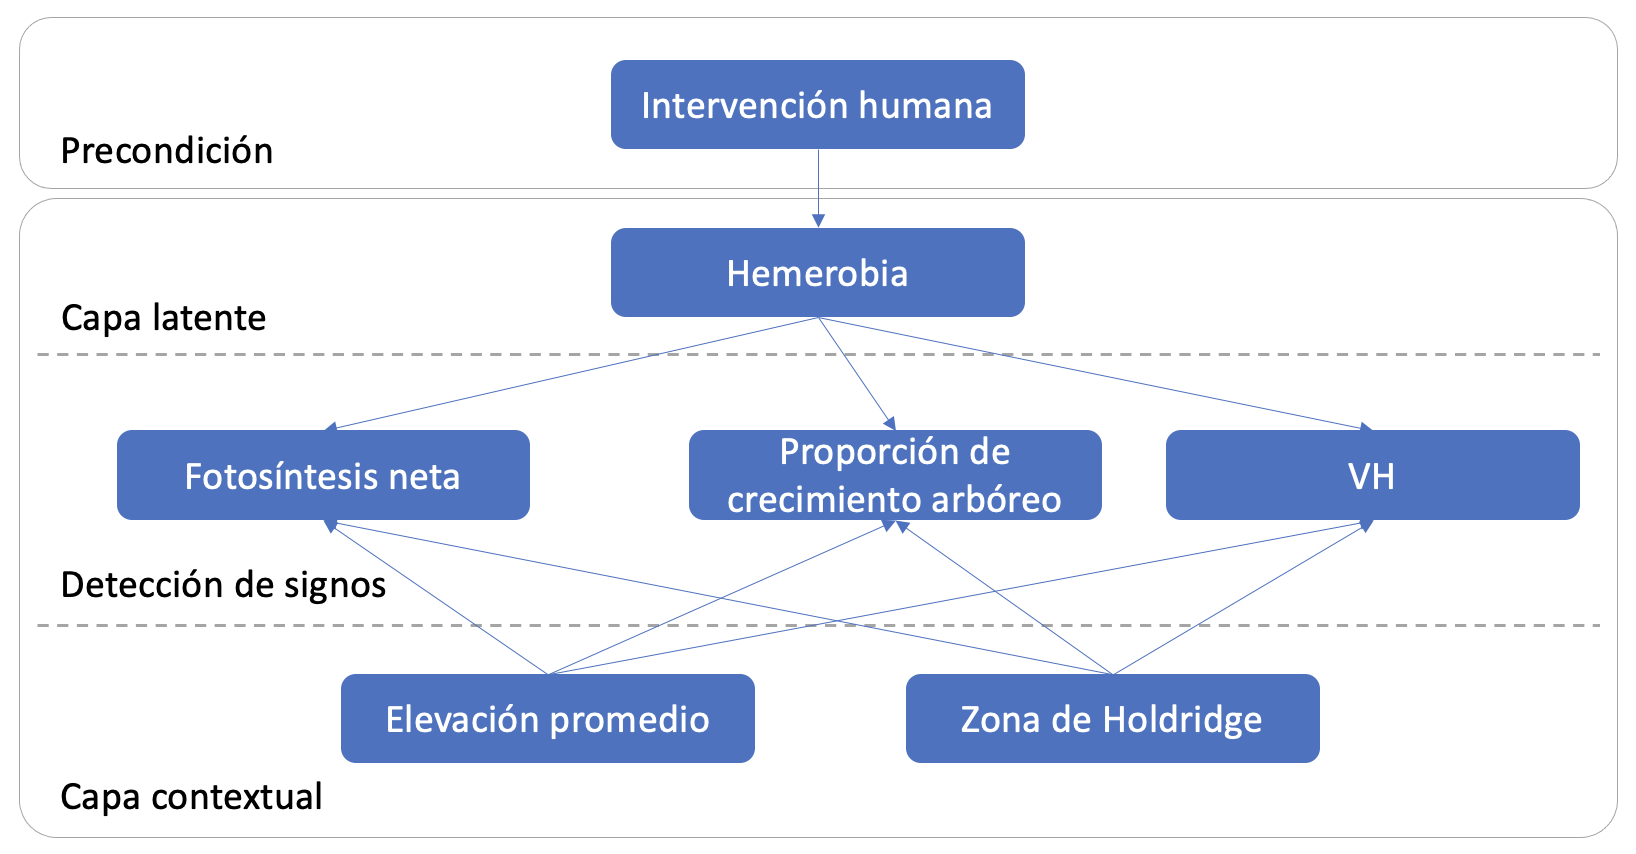
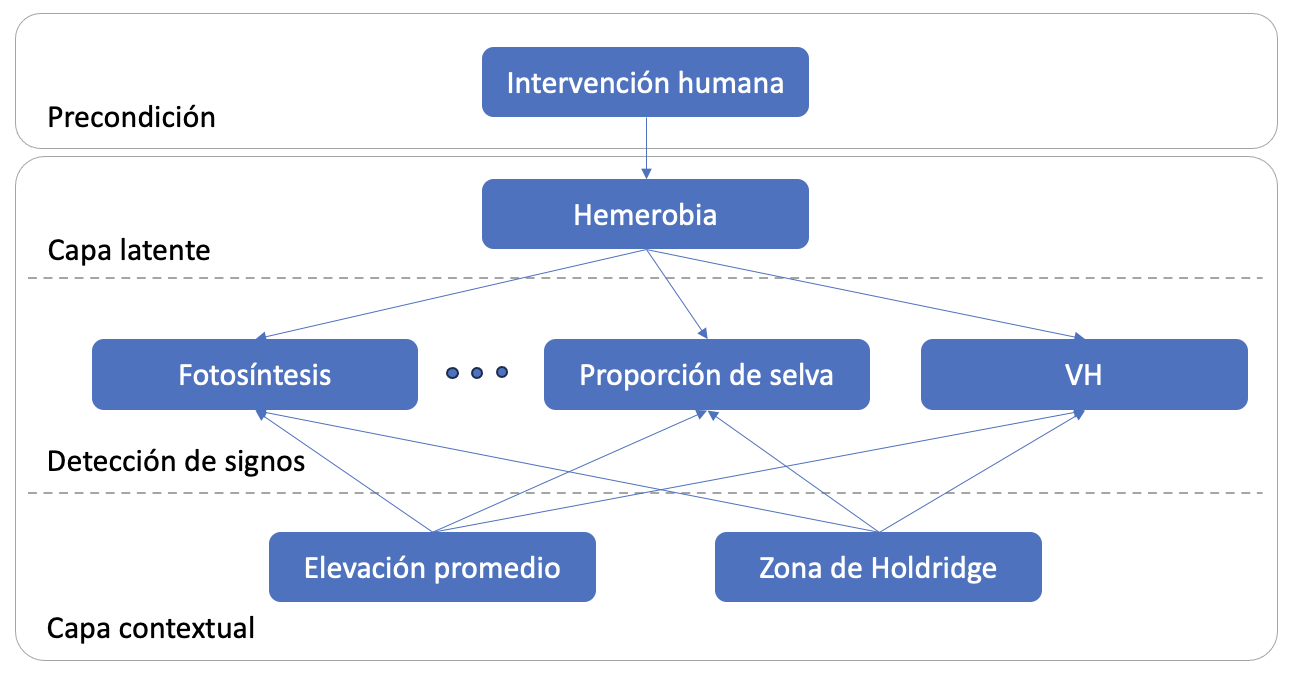
update README

diff --git a/scripts/README.md b/scripts/README.md
@@ -8,32 +8,39 @@ La integridad ecológica no puede ser directamente observada, por lo que para mo
 
 ![](images/hemerobia.png)
 
-Para modelar la hemerobia se tomaron en cuenta variables relacionadas a la integridad ecológica. Se incluyeron las zonas de vida de Holdridge y la elevación, con el fin de considerar los distintos tipos de ecosistemas en México, pues describen la variabilidad natural de las condiciones fisicoquímicas. El modelo incluye información de las características funcionales y estructurales de la vegetación, através datos de fotosíntesis y radar. La distancia al borde representa la fragmentación. Y el uso de suelo identifica distintos tipos que son de nuestro interés, como cultivos y asentamientos urbanos.
+Para modelar la hemerobia se tomaron en cuenta variables relacionadas a la integridad ecológica. Se incluyeron las zonas de vida de Holdridge y la elevación, con el fin de considerar la variabilidad natural de las condiciones fisicoquímicas que defienen los distintos tipos de ecosistemas. La condición de la vegetación se incluyó en una primera versión del modelo, a través de datos obtenidos del INFyS (Inventario Nacional Forestal y de Suelos), que publicaba observaciones obtenidas de muestreo en campo. Sin embargo, esta fuente de información ha sido descontinuada, por lo que fue sustituida con datos de radar, los cuales han sido previamente utilizados para modelar vegetación, por ejemplo, para predicción de la altura del dosel. La variable de distancia al borde del parche representó la fragmentación. Y el uso de suelo identificó distintos tipos relacionados a cierta integridad ecológica, como cultivos y asentamientos urbanos. La fuente de datos de uso de suelo para la primer versión del modelo, fue MAD-Mex, sin embargo, sólo se tienen datos hasta 2018, por lo que se sustituyó por MODIS Land Cover.
 
 El raster de cada una de las variables fue transformado a una misma resolución de 250m x 250m.
 
-|                                             | Definición                                                                                                                                                     | Variable                                     | Resolución de origen (m) | Transformación a resolución de 250m | Fuente                                                                                |
-|------------|------------|------------|------------|------------|------------|
-| Hemerobia                                   | Grado de transformación que mostró la vegetación primaria respecto a la cobertura terrestre actual                                                             | Hemerobia                                    | 250                      | \-                                  | Uso de suelo y vegetación, INEGI                                                      |
-| Zona de vida de Holdridge                   | Agrupa en 28 zonas basandose en presipitación, biotemperatura y la evapotranspiración                                                                          | Zona de vida de Holdridge                    | 260                      | Interpolación con Nearest Neighbor  | Portal de Geoinformación, CONABIO                                                     |
-| Elevación (DEM)                             | Altura sobre nivel promedio del mar                                                                                                                            | Promedio                                     | 30                       | Promedio                            | Copernicus DEM GLO-30: Global 30m Digital Elevation Model                             |
-|                                             |                                                                                                                                                                | Mínimo                                       |                          |                                     |                                                                                       |
-|                                             |                                                                                                                                                                | Máximo                                       |                          |                                     |                                                                                       |
-| Fotosíntesis (Productividad primaria bruta) | Cantidad total de compuestos de carbono producidos por la fotosíntesis. Ha sido usada para estimar la biogeoquímica de la vegetación                           | Promedio anual                               | 500                      | Interpolación con Nearest Neighbor  | Terra Gross Primary Productivity 8-Day Global 500m, NASA                              |
-|                                             |                                                                                                                                                                | DE anual                                     |                          |                                     |                                                                                       |
-|                                             |                                                                                                                                                                | Promedio en estación de lluvias              |                          |                                     |                                                                                       |
-|                                             |                                                                                                                                                                | Promedio en estación seca                    |                          |                                     |                                                                                       |
-| Radar (de apertura sintética en la banda C) | Coeficiente de retrodispersión que depende de la geometría del terreno y sus características electromagnéticas. Ha sido usado para estimar la altura del dosel | Promedio anual de banda VH y VV              | 40                       | Promedio                            | Sentinel-1 SAR GRD: C-band Synthetic Aperture Radar Ground Range Detected, Copernicus |
-|                                             |                                                                                                                                                                | DE anual de banda VH y VV                    |                          |                                     |                                                                                       |
-|                                             |                                                                                                                                                                | Entropía del promedio anual de banda VV y VH |                          |                                     |                                                                                       |
-| Distancia al borde                          | Distancia, en metros, de cada pixel al borde del parche                                                                                                        | Distancia al borde                           | 250                      | \-                                  |                                                                                       |
-| Uso de suelo                                | Estimación basada en imágenes satelitales del tipo de uso de suelo, que incluye cultivos, asentamientos urbanos, pastizales, bosques, etc.                     | Uso de suelo                                 | 500                      | Interpolación con Nearest Neighbor  | MODIS Land Cover Type Yearly Global 500m, NASA                                        |
-| Uso de suelo (MAD-Mex)                      | Estimación del tipo de uso de suelo basado en Landsat                                                                                                          | Proporción de cultivos y pastizales          | 30                       | Promedio                            | CONABIO                                                                               |
-|                                             |                                                                                                                                                                | Proporción de asentamientos humanos          |                          |                                     |                                                                                       |
-|                                             |                                                                                                                                                                | Proporción de suelo desnudo                  |                          |                                     |                                                                                       |
-|                                             |                                                                                                                                                                | Proporción de matorral                       |                          |                                     |                                                                                       |
-|                                             |                                                                                                                                                                | Proporción de selva                          |                          |                                     |                                                                                       |
-|                                             |                                                                                                                                                                | Proporción de bosque                         |                          |                                     |                                                                                       |
+|                                             | Definición                                                                                                                                 | Variable                                     | Resolución de origen (m) | Transformación a resolución de 250m | Fuente                                                                                |
+|-----------|--------------------|-------------------|-----------|-----------|------------|
+| Hemerobia                                   | Grado de transformación que mostró la vegetación primaria respecto a la cobertura terrestre actual                                         | Hemerobia                                    | 250                      | \-                                  | Uso de suelo y vegetación, INEGI                                                      |
+| Zona de vida de Holdridge                   | Agrupa en 28 zonas basandose en presipitación, biotemperatura y la evapotranspiración                                                      | Zona de vida de Holdridge                    | 260                      | Interpolación con Nearest Neighbor  | Portal de Geoinformación, CONABIO                                                     |
+| Elevación (DEM)                             | Altura sobre nivel promedio del mar                                                                                                        | Promedio                                     | 30                       | Promedio                            | Copernicus DEM GLO-30: Global 30m Digital Elevation Model                             |
+|                                             |                                                                                                                                            | Mínimo                                       |                          | Mínimo                              |                                                                                       |
+|                                             |                                                                                                                                            | Máximo                                       |                          | Máximo                              |                                                                                       |
+| Fotosíntesis (Productividad primaria bruta) | Cantidad total de compuestos de carbono producidos por la fotosíntesis. Ha sido usada para estimar la biogeoquímica de la vegetación       | Promedio anual                               | 500                      | Interpolación con Nearest Neighbor  | Terra Gross Primary Productivity 8-Day Global 500m, NASA                              |
+|                                             |                                                                                                                                            | DE anual                                     |                          |                                     |                                                                                       |
+|                                             |                                                                                                                                            | Promedio en estación de lluvias              |                          |                                     |                                                                                       |
+|                                             |                                                                                                                                            | Promedio en estación seca                    |                          |                                     |                                                                                       |
+| Radar (de apertura sintética en la banda C) | Coeficiente de retrodispersión que depende de la geometría del terreno y sus características electromagnéticas                             | Promedio anual de banda VH y VV              | 40                       | Promedio                            | Sentinel-1 SAR GRD: C-band Synthetic Aperture Radar Ground Range Detected, Copernicus |
+|                                             |                                                                                                                                            | DE anual de banda VH y VV                    |                          |                                     |                                                                                       |
+|                                             |                                                                                                                                            | Entropía del promedio anual de banda VV y VH |                          |                                     |                                                                                       |
+| Distancia al borde                          | Distancia, en metros, de cada pixel al borde del parche                                                                                    | Distancia al borde                           | 250                      | \-                                  |                                                                                       |
+| Uso de suelo                                | Estimación basada en imágenes satelitales del tipo de uso de suelo, que incluye cultivos, asentamientos urbanos, pastizales, bosques, etc. | Uso de suelo                                 | 500                      | Interpolación con Nearest Neighbor  | MODIS Land Cover Type Yearly Global 500m, NASA                                        |
+| Uso de suelo (MAD-Mex)                      | Estimación del tipo de uso de suelo basado en Landsat                                                                                      | Proporción de cultivos y pastizales          | 30                       | Proporción de cada categoría        | CONABIO                                                                               |
+|                                             |                                                                                                                                            | Proporción de asentamientos humanos          |                          |                                     |                                                                                       |
+|                                             |                                                                                                                                            | Proporción de suelo desnudo                  |                          |                                     |                                                                                       |
+|                                             |                                                                                                                                            | Proporción de matorral                       |                          |                                     |                                                                                       |
+|                                             |                                                                                                                                            | Proporción de selva                          |                          |                                     |                                                                                       |
+|                                             |                                                                                                                                            | Proporción de bosque                         |                          |                                     |                                                                                       |
+| INFyS                                       | Inventario Nacional Forestal y de Suelos                                                                                                   | Número de árboles y arbustos                 |                          |                                     | INFyS                                                                                 |
+|                                             |                                                                                                                                            | Presencia de daño por insectos en árboles    |                          |                                     |                                                                                       |
+|                                             |                                                                                                                                            | Presencia de árboles muertos                 |                          |                                     |                                                                                       |
+|                                             |                                                                                                                                            | Diámetro de tronco (promedio y DE)           |                          |                                     |                                                                                       |
+|                                             |                                                                                                                                            | Diámetro de copa (promedio y DE)             |                          |                                     |                                                                                       |
+|                                             |                                                                                                                                            | Altura total de árbol (promedio y DE)        |                          |                                     |                                                                                       |
+|                                             |                                                                                                                                            | Altura de fuste limpio (promedio y DE)       |                          |                                     |                                                                                       |
 
 ## Modelos
 
@@ -79,13 +86,13 @@ Es un modelo que combina modelos débiles, es decir modelos con baja precisión,
 
 ![](images/xgboost_diagram.png)
 
-Para entrenar el modelo se tomaraon de manera aleatoria el 70% de los datos, el 30% restante se usó para su validación. Con este modelo de clasificación, al igual que con la red bayesiana, se obtiene la probabilidad de que cada pixel pertenezca a cada clase de la hemerobia, asignando la de mayor probabilidad.
+Para entrenar el modelo se tomaron de manera aleatoria el 70% de los datos, el 30% restante se usó para su validación. Con este modelo de clasificación, al igual que con la red bayesiana, se obtiene la probabilidad de que cada pixel pertenezca a cada clase de la hemerobia, asignando la de mayor probabilidad.
 
 #### SLIC
 
 El mapa generado con los modelos de clasificación presentan un efecto *sal y pimienta*, derivado de la naturaleza del modelo, pues este predice el valor pixel por pixel. La hemerobia no tiene este efecto, ya que la integridad ecológica no suele cambiar de un cuadrante de 250m x 250m a otro, por el contrario, las regiones con una integridad similar suelen ser más extensas, como los son bosques, cultivos, ciudades.
 
-Para eliminar este efecto, se uso el algoritmo SLIC, que crea agrupaciones de pixeles, llamadas *superpixeles,* con características similares de acuerdo a las variables deseadas. En este caso, se utilizaron las bandas VV y VH del radar Sentinel-1, así como la fotosíntesis anual media y su desviación estándar, ya que estas representan el estado de la vegetación, siendo lo que principalmente se desea capturar con la integridad ecológica.
+Para eliminar este efecto, se uso el algoritmo SLIC, que crea agrupaciones de pixeles, llamadas *superpixeles,* con características similares de acuerdo a las variables deseadas. En este caso, se utilizaron las bandas VV y VH del radar Sentinel-1, así como la fotosíntesis anual media y su desviación estándar, ya que estas representan el estado de la vegetación.
 
 ![](images/slic_comparison_2.jpg)
 
@@ -97,15 +104,15 @@ $$
 k=redondear(-18(IIE-1))
 $$
 
-|                                     |       |          |         |
-|-------------------------------------|-------|----------|---------|
 |                                     | Total | Training | Testing |
+|-------------------------------------|-------|----------|---------|
 | Red bayesiana con INFyS             | 20.2% |          |         |
-| Red bayesiana                       | 48.0% |          |         |
+| Red bayesiana con radar             | 48.0% |          |         |
 | XGBoost                             | 75.1% | 77.2%    | 70.2%   |
+| XGBoost con distancia al borde      |       |          |         |
 | XGBoost-SLIC                        | 70.5% | 73.9%    | 62.5%   |
 | XGBoost-SLIC con distancia al borde | 70.8% | 73.8%    | 63.7%   |
 
-Observando el mapa, las 3 predicciones son parecidas a la hemerobia, siendo el modelo XGBoost el que tiene una mayor precisión. El IIE estimado con la red bayesiana y mediante el promedio ponderado, da un mapa suavizado, no existe una marcada diferencia entre zonas. El modelo XGBoost sí diferencía entre zonas, sin embargo, presenta un efecto *sal y pimienta*. Por último, se observa que el modelo que utiliza *superpixeles*, es el más parecido a la hemerobia, aunque la precisión comparando pixel con pixel disminuye.
+Observando el mapa, las 3 predicciones son parecidas a la hemerobia. El IIE estimado con la red bayesiana y mediante el promedio ponderado, da un mapa suavizado, no diferencía ciertas zonas con integridad similar. El modelo XGBoost sí lo hace, sin embargo, presenta un efecto *sal y pimienta*. Por último, se observa que el modelo que utiliza *superpixeles*, es el más parecido a la hemerobia.
 
 ![](images/model_comparison.jpg)
